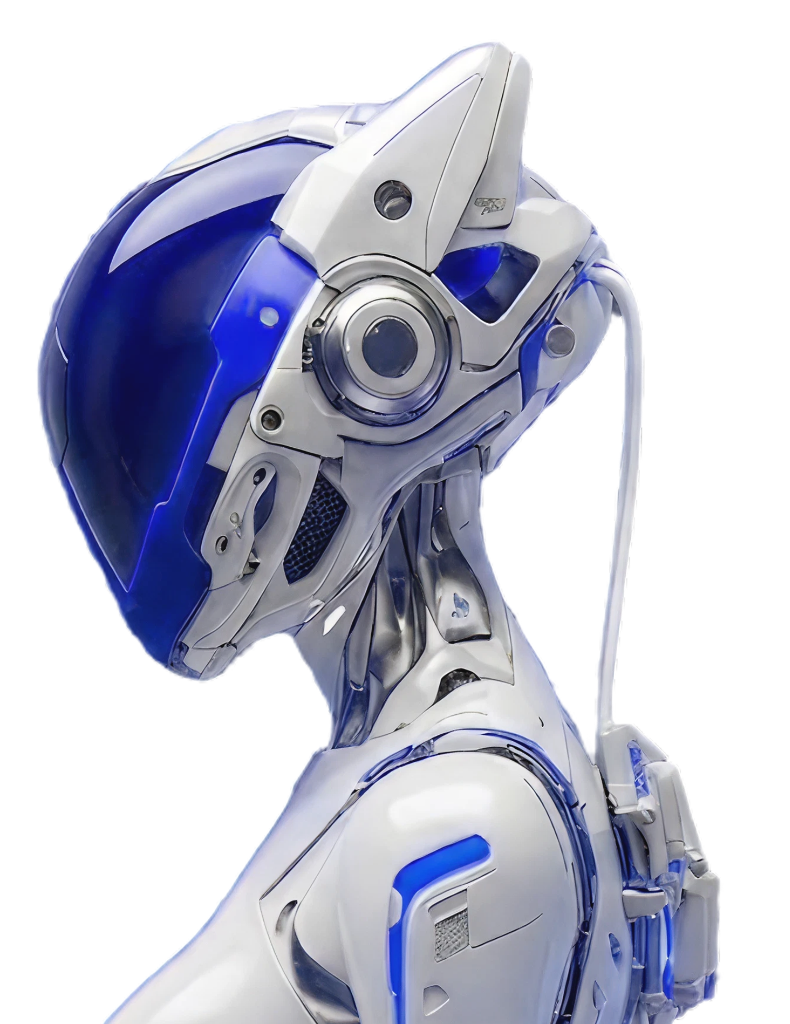
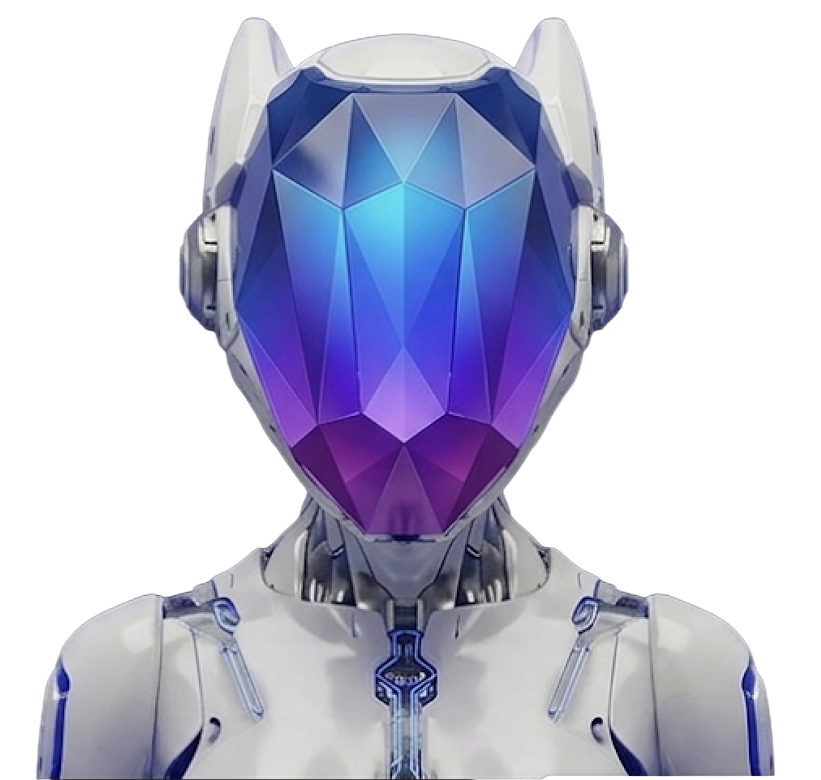
feat: reintegrate Casper welcome card and set profile picture for Dr. Renaud Desouches

diff --git a/src/pages/Dashboard.tsx b/src/pages/Dashboard.tsx
@@ -11,6 +11,8 @@ import orthomindLogo from '../assets/orthomind-logo.png';
 import logoSeul from '../assets/logo-seul.png';
 import Patients from './Patients';
 import orthomindNavIcon from '../assets/Orthomind.png';
+import welcomeCardImg from '../assets/welcomecard.png';
+import drPhoto from '../assets/photo.png';
 import './Dashboard.css';
 
 interface BookDocument {
@@ -783,11 +785,20 @@ const Dashboard = () => {
                 </nav>
 
                 <div className="sidebar-profile">
-                    <div className="profile-avatar-glow">
-                        {user?.name?.[0] || 'D'}
-                    </div>
+                    <img 
+                        src={drPhoto} 
+                        alt="Dr. Renaud Desouches" 
+                        style={{ 
+                            width: '40px', 
+                            height: '40px', 
+                            borderRadius: '50%', 
+                            objectFit: 'cover',
+                            border: '1px solid rgba(255, 255, 255, 0.15)',
+                            boxShadow: '0 0 10px rgba(255, 255, 255, 0.1)'
+                        }} 
+                    />
                     <div className="profile-info">
-                        <h4>{user?.name || 'Dr. Dentiste'}</h4>
+                        <h4>Dr. Renaud Desouches</h4>
                         <p>{user?.specialty || 'Chirurgien Orthodontiste'}</p>
                     </div>
                 </div>
@@ -811,6 +822,11 @@ const Dashboard = () => {
                         <div className="dashboard-header">
                             <h1>Diagnostic Casper Expert</h1>
                             <p>Déposez les photographies intra-buccales de votre patient pour initier l'analyse clinique par RAG.</p>
+                        </div>
+
+                        {/* Welcome Card Banner */}
+                        <div className="glass-panel welcome-card-container" style={{ marginBottom: '30px', overflow: 'hidden', padding: 0, border: '1px solid rgba(255, 255, 255, 0.08)', borderRadius: '16px', boxShadow: '0 8px 32px 0 rgba(0, 0, 0, 0.3)' }}>
+                            <img src={welcomeCardImg} alt="Casper Dental Welcome" style={{ width: '100%', height: 'auto', display: 'block', objectFit: 'cover' }} />
                         </div>
 
                         <div className="analyse-grid">
